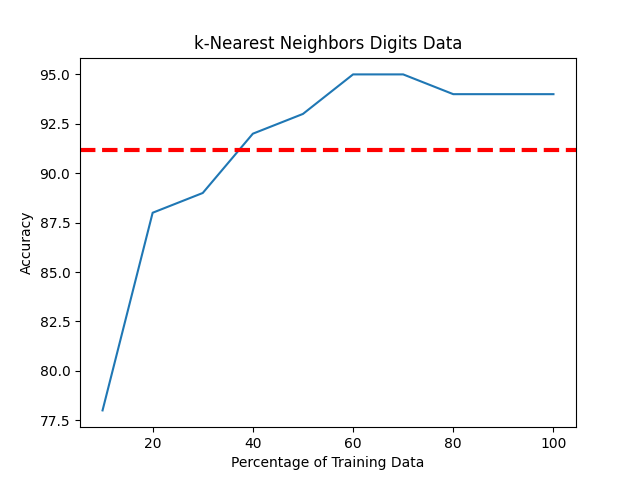
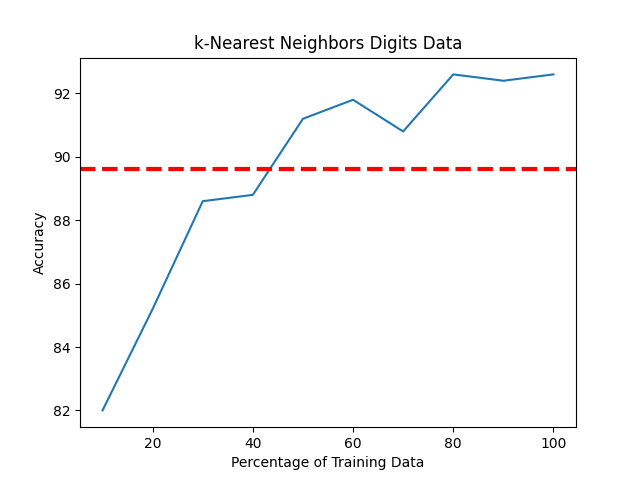
executed knn classifier and stored graphs

diff --git a/dataClassifier.py b/dataClassifier.py
@@ -387,8 +387,8 @@ if __name__ == '__main__':
   percentlist = []
   t=0
   for i in range(10):
-    t += 45
-    args, options = readCommand(['-d','faces','-c','knn','-t', str(t),'-k','1','-a'])
+    t += 500
+    args, options = readCommand(['-d','digits','-c','knn','-t', str(t),'-k','1','-a'])
     timeTaken = 0
     accuracy = 0
     for j in range(5):
@@ -408,7 +408,7 @@ if __name__ == '__main__':
   # plt.axhline(y=np.std(timeList), color='blue', linestyle='--', linewidth=3, label='Standard Deviation')
   plt.xlabel("Percentage of Training Data")
   plt.ylabel("Time Taken")
-  plt.title("k-Nearest Neighbors Faces Data")
+  plt.title("k-Nearest Neighbors Digits Data")
   plt.show()
 
 
@@ -418,7 +418,7 @@ if __name__ == '__main__':
   # plt.axhline(y=np.std(accuracyList), color='blue', linestyle='--', linewidth=3, label='Standard Deviation')
   plt.xlabel("Percentage of Training Data")
   plt.ylabel("Accuracy")
-  plt.title("k-Nearest Neighbors Faces Data")
+  plt.title("k-Nearest Neighbors Digits Data")
   plt.show()
 #python dataClassifier.py -c naiveBayes -d digits -t 1000 -f -o -1 3 -2 6 -k 2.5
 # [76, 78, 79, 78, 80, 82, 81, 80, 79, 79]

diff --git a/knn.py b/knn.py
@@ -1,8 +1,12 @@
 from sklearn.neighbors import KNeighborsClassifier
+import numpy as np
 
 class KNN:
 
+    dataset = ""
+
     def __init__( self, dataset):
+        self.dataset = dataset    
         if dataset == "digits":
             self.knn = KNeighborsClassifier(n_neighbors=1)
         elif dataset == "faces":
